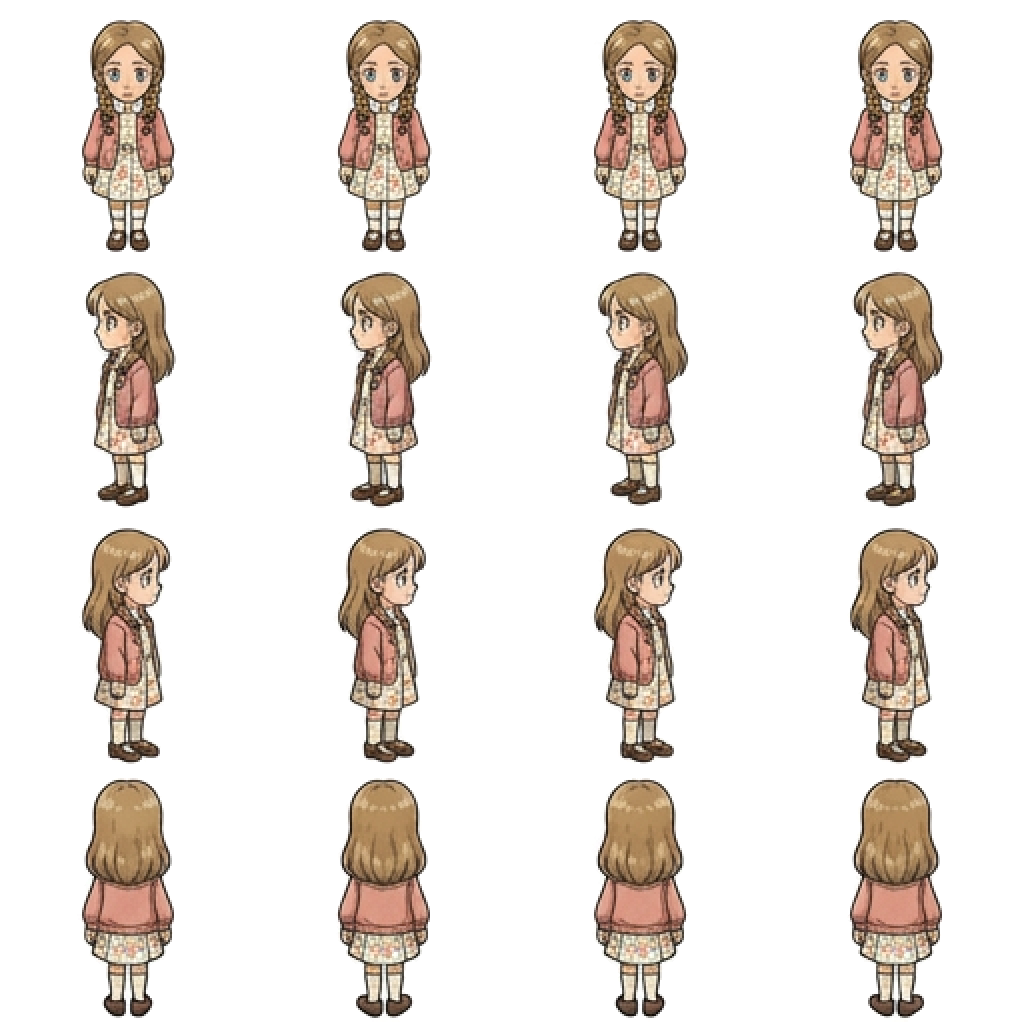
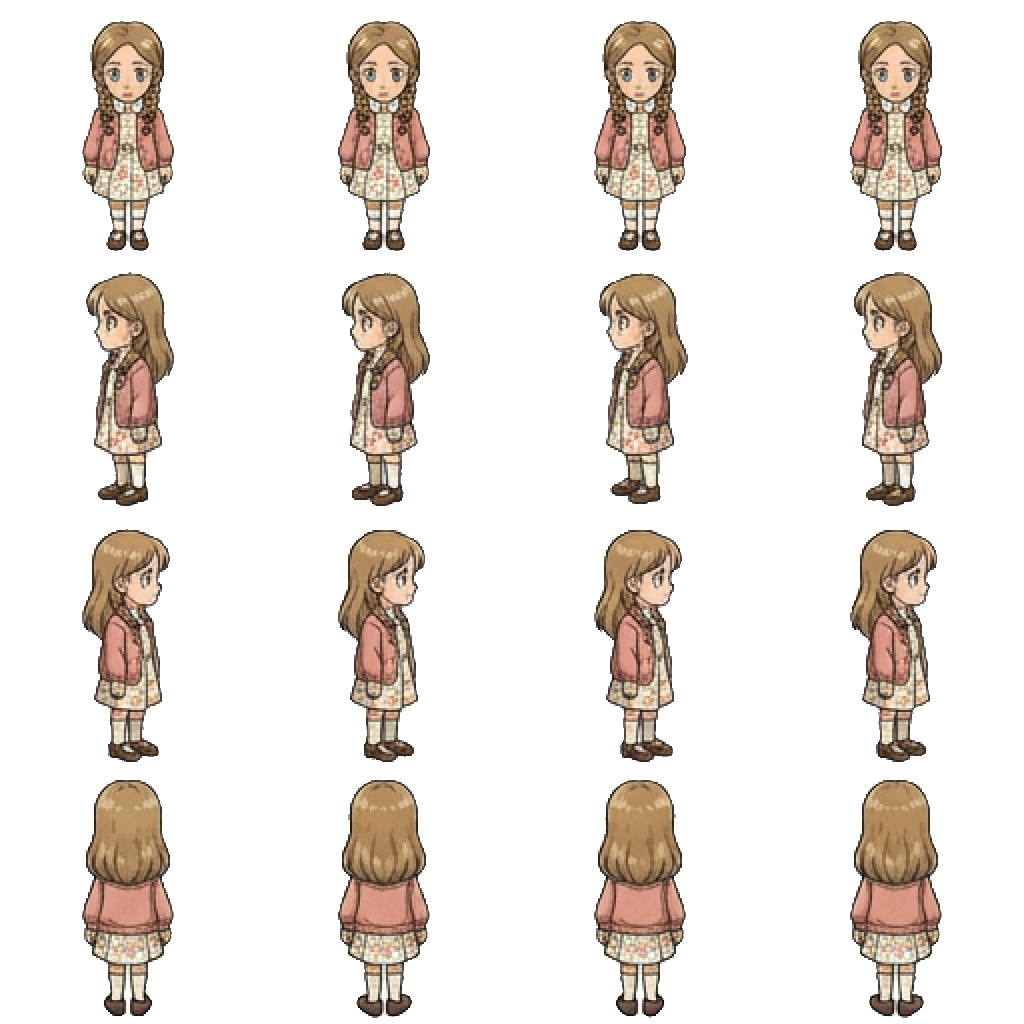
fix: knock residual white fringe from daisy/buster sheets + NEAREST sampling for pixel-art sprites

diff --git a/game/src/app/screens/LevelScene.ts b/game/src/app/screens/LevelScene.ts
@@ -1,10 +1,12 @@
 import {
-  AnimatedSprite,
-  Assets,
   Container,
   Graphics,
-  Sprite,
   Text,
+  Assets,
+  AnimatedSprite,
+  Sprite,
+  Texture,
+  SCALE_MODES,
 } from "pixi.js";
 import type { Scene } from "../../engine/types";
 import { InputSystem } from "../../engine/utils/Input";
@@ -118,6 +120,7 @@ export class LevelScene extends Container implements Scene {
       resolveActorFrameSheet(playerActorId, "idle"),
     ).animations;
     this.playerSprite = new AnimatedSprite(playerFrames.down);
+    this.setPixelated(this.playerSprite);
     const playerScale = characters[playerActorId]?.scale ?? 1;
     this.playerSprite.width = TILE_SIZE * playerScale;
     this.playerSprite.height = TILE_SIZE * playerScale;
@@ -144,6 +147,7 @@ export class LevelScene extends Container implements Scene {
       if (!frames || frames.length === 0) continue;
 
       const sprite = new AnimatedSprite(frames);
+      this.setPixelated(sprite);
       const actorScale = characters[actor.actorId]?.scale ?? 1;
       sprite.width = TILE_SIZE * actorScale;
       sprite.height = TILE_SIZE * actorScale;
@@ -164,6 +168,18 @@ export class LevelScene extends Container implements Scene {
     this.updateCamera();
   }
 
+  /**
+   * Pixel-art sprites must sample with NEAREST filtering — the default LINEAR
+   * bleeds transparent edge texels at fractional screen positions, which shows
+   * up as a light fringe/shimmer around characters.
+   */
+  private setPixelated(sprite: AnimatedSprite) {
+    for (const entry of sprite.textures) {
+      const tex = entry instanceof Texture ? entry : entry.texture;
+      tex.baseTexture.scaleMode = SCALE_MODES.NEAREST;
+    }
+  }
+
   private setActorAnimation(
     sprite: AnimatedSprite,
     actorId: string,
@@ -176,6 +192,7 @@ export class LevelScene extends Container implements Scene {
     const frames = sheet.animations[direction];
     if (frames && sprite.textures !== frames) {
       sprite.textures = frames;
+      this.setPixelated(sprite);
       sprite.play();
     }
   }
